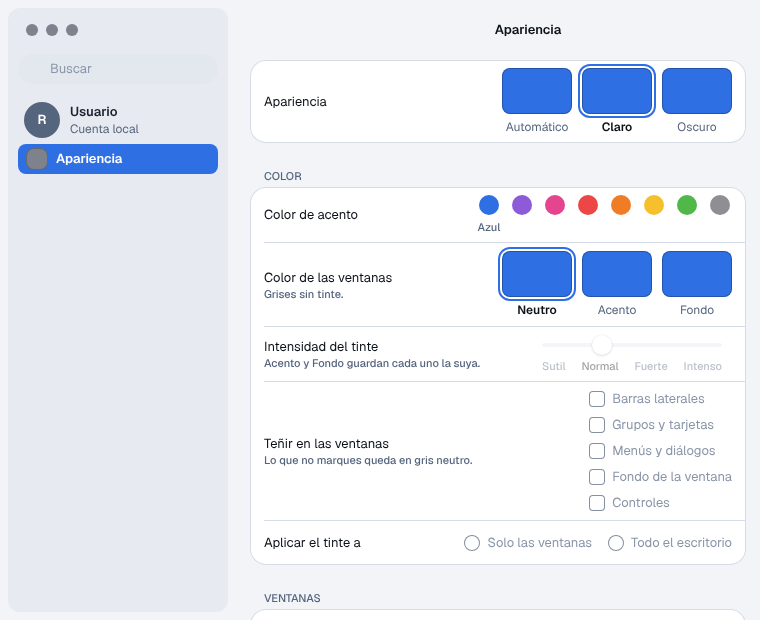
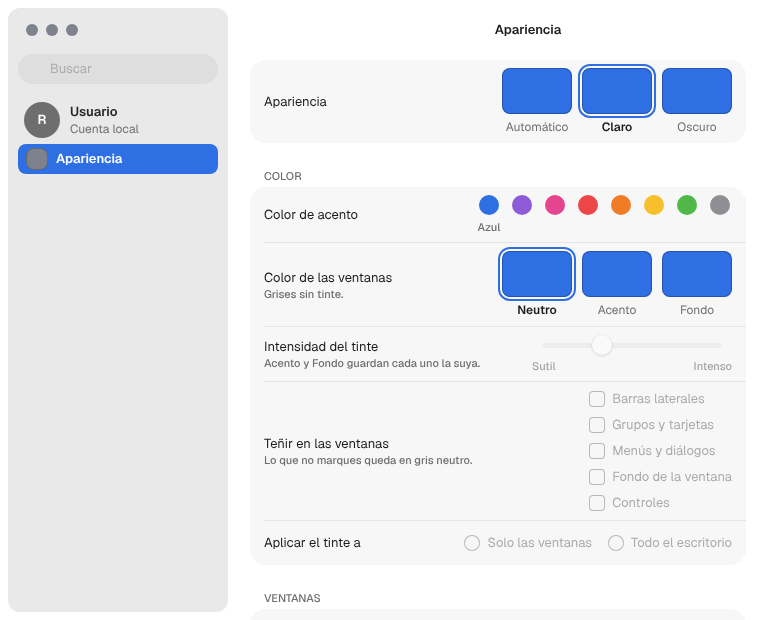
build(deps): barrierkit 1f9df72 con la paleta clara neutra
Ajustes y su mockup pasan a la paleta clara medida sobre macOS: ventana
blanca, tarjetas gris claro sin borde y el deslizador de intensidad con
marcas bajo la pista y etiqueta solo en los extremos.

Claude-Session: https://claude.ai/code/session_01F89v1tsx63Ncce7GVPXu9u

diff --git a/docs/mockups/ajustes-del-sistema/apariencia.html b/docs/mockups/ajustes-del-sistema/apariencia.html
@@ -63,7 +63,7 @@ span,b,small{display:block;white-space:nowrap}
 
 /* Form / Section / Row */
 .hdr{display:flex;padding:var(--list-group-section-header-padding);color:var(--list-group-section-header-color)}
-.card{border-radius:var(--list-group-radius);background:var(--list-group-bg);box-shadow:inset 0 0 0 1px var(--list-group-border);overflow:hidden}
+.card{border-radius:var(--list-group-radius);background:var(--list-group-bg);box-shadow:inset 0 0 0 1px var(--card-border);overflow:hidden}
 .sep{height:1px;margin-left:var(--list-group-separator-inset-left);background:var(--list-group-separator-color)}
 .row{display:flex;align-items:center;gap:var(--space-3);min-height:var(--list-group-row-min-height);padding:var(--space-2) var(--list-group-row-padding-x)}
 .row .lbl{display:flex;flex-direction:column;align-items:flex-start}
@@ -86,10 +86,9 @@ span,b,small{display:block;white-space:nowrap}
 
 /* Slider por pasos */
 .sld{position:relative;width:var(--settings-strength-width);height:calc(var(--slider-knob) + var(--settings-strength-label-gap) + var(--type-caption-line-height));opacity:var(--switch-disabled-opacity)}
-.sld .trk{position:absolute;left:calc(var(--slider-knob) / 2);right:calc(var(--slider-knob) / 2);top:calc((var(--slider-knob) - var(--slider-track)) / 2);height:var(--slider-track);border-radius:var(--radius-pill);background:var(--slider-track-color)}
-.sld .knb{position:absolute;left:calc((var(--settings-strength-width) - var(--slider-knob)) / 3);top:0;width:var(--slider-knob);height:var(--slider-knob);border-radius:var(--radius-pill);background:var(--bg-surface);box-shadow:var(--shadow-knob)}
-.sld .lbs{position:absolute;left:calc(var(--slider-knob) / 2);right:calc(var(--slider-knob) / 2);top:calc(var(--slider-knob) + var(--settings-strength-label-gap));display:flex;justify-content:space-between;color:var(--ink-muted)}
-.sld .lbs [data-state~="selected"]{color:var(--ink-strong)}
+.sld .trk{position:absolute;left:calc(var(--slider-knob) / 2);right:calc(var(--slider-knob) / 2);top:calc((var(--slider-knob) - var(--settings-strength-track)) / 2);height:var(--settings-strength-track);border-radius:var(--radius-pill);background:var(--slider-track-color)}
+.sld .knb{position:absolute;left:calc((var(--settings-strength-width) - var(--slider-knob)) / 3);top:0;width:var(--slider-knob);height:var(--slider-knob);border-radius:var(--radius-pill);background:var(--bg-raised);box-shadow:var(--shadow-knob)}
+.sld .lbs{position:absolute;left:0;right:0;top:calc(var(--slider-knob) + var(--settings-strength-label-gap));display:flex;justify-content:space-between;color:var(--ink-strong)}
 
 /* Casillas y radios (deshabilitados en Neutro) */
 .checks{display:flex;flex-direction:column;align-items:flex-start;gap:var(--settings-check-row-gap)}
@@ -179,8 +178,6 @@ html[data-query] .it[data-state~="selected"]{background:var(--window-sidebar-ite
             <div class="lbl"><span class="t-body" data-id="row.intensidad" data-kit="Row">Intensidad del tinte</span><small class="t-caption" data-id="row.intensidad.detail" data-kit="Row">Acento y Fondo guardan cada uno la suya.</small></div>
             <div class="acc"><div class="sld" data-kit="Slider"><i class="trk"></i><i class="knb"></i><div class="lbs t-caption">
               <span data-id="intensidad.sutil" data-kit="Slider">Sutil</span>
-              <span data-id="intensidad.normal" data-kit="Slider" data-state="selected">Normal</span>
-              <span data-id="intensidad.fuerte" data-kit="Slider">Fuerte</span>
               <span data-id="intensidad.intenso" data-kit="Slider">Intenso</span>
             </div></div></div>
           </div>
